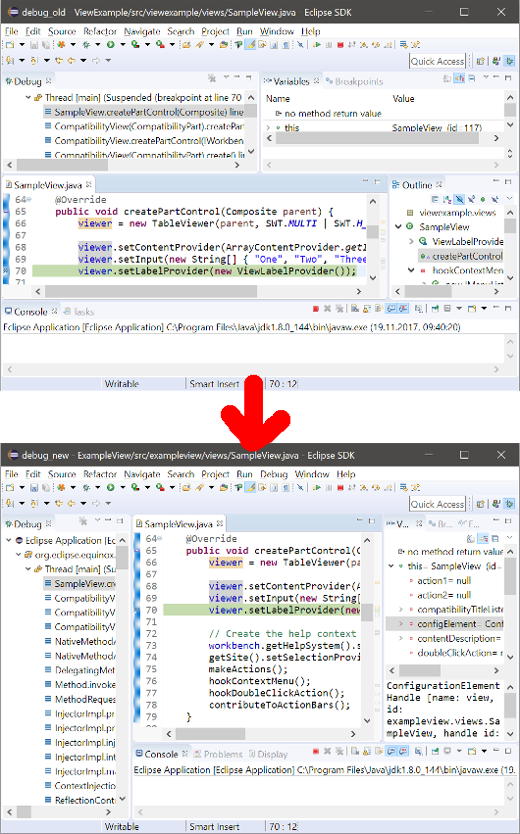
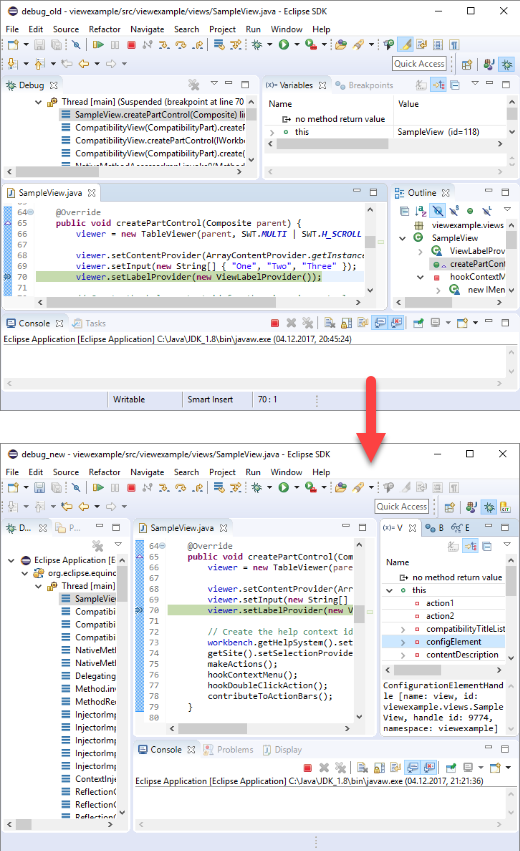
Bug 527958 - Contribute Project explorer to default debug perspective
Update N&N for new debug perspective: 
- Add project explorer to existing N&N section (text and screenshots). 
- Removes separate N&N section for 'project explorer in debug
perspective'.

diff --git a/4.8/M4/index.html b/4.8/M4/index.html
@@ -258,20 +258,13 @@ table.news tr td.content {vertical-align: top;}
     <td class="content">
       Default Debug perspective layout changed, see screenshot below. The aim is to give the editor area
       more space and to show more relevant information without scrolling.
-      Display and Expessions views are now shown by default, Problems view replaces Tasks.
+      Display view, Expessions view and Project Explorer are now shown by default, Problems view replaces Tasks.
       <p>
         <img src="images/debug_perspective_changes.png" alt=""/>
       </p>
     </td>
   </tr>
   
-  <tr id="debug-perspective-project-explorer">
-    <td class="title">Project explorer in Debug perspective</td>
-    <td class="content">
-      The default Debug perspective now contains the Project Explorer. This allows you to quickly navigate to related files during debugging.
-    </td>
-  </tr>
-
   <tr id="export-launch-configurations">
     <td class="title">Right click option to export Launch Configurations</td>
     <td class="content">
